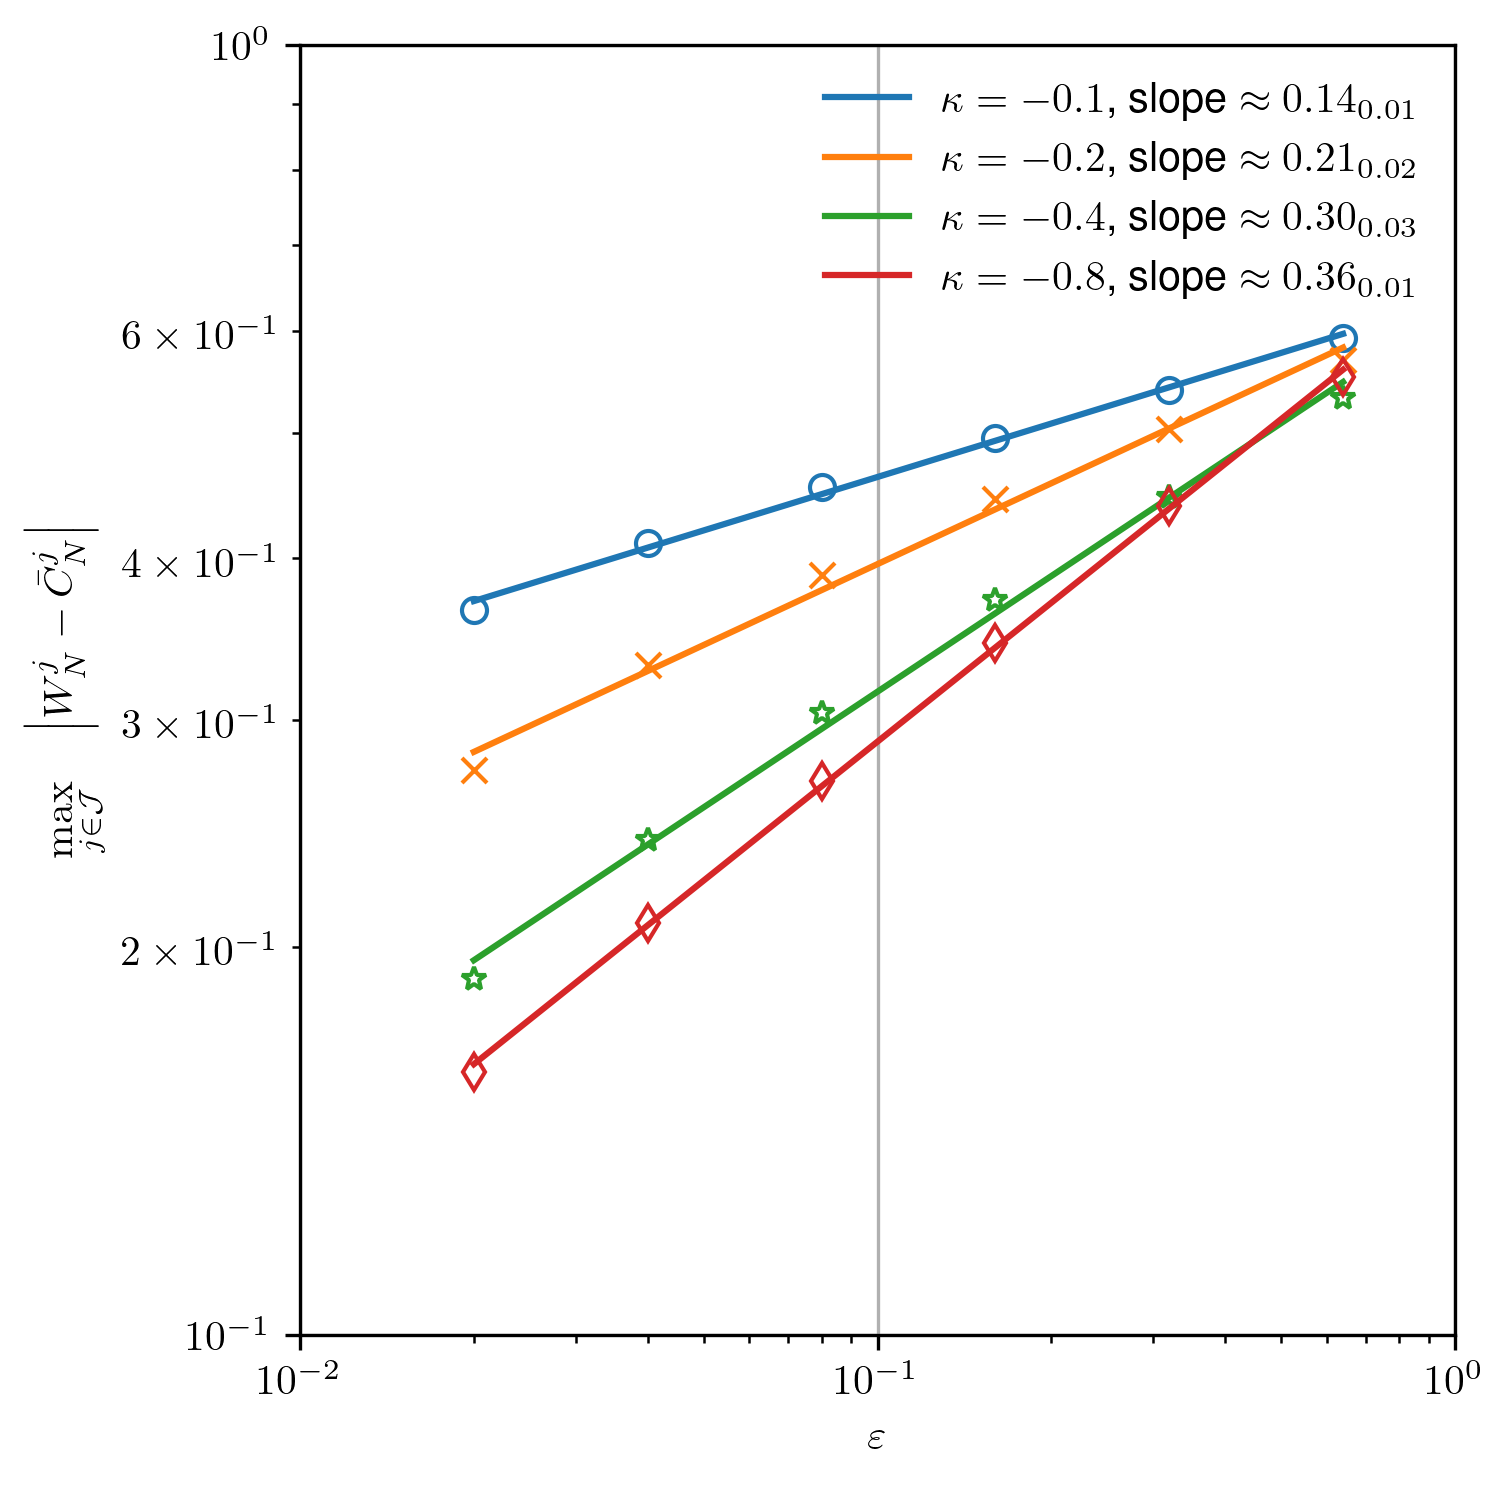
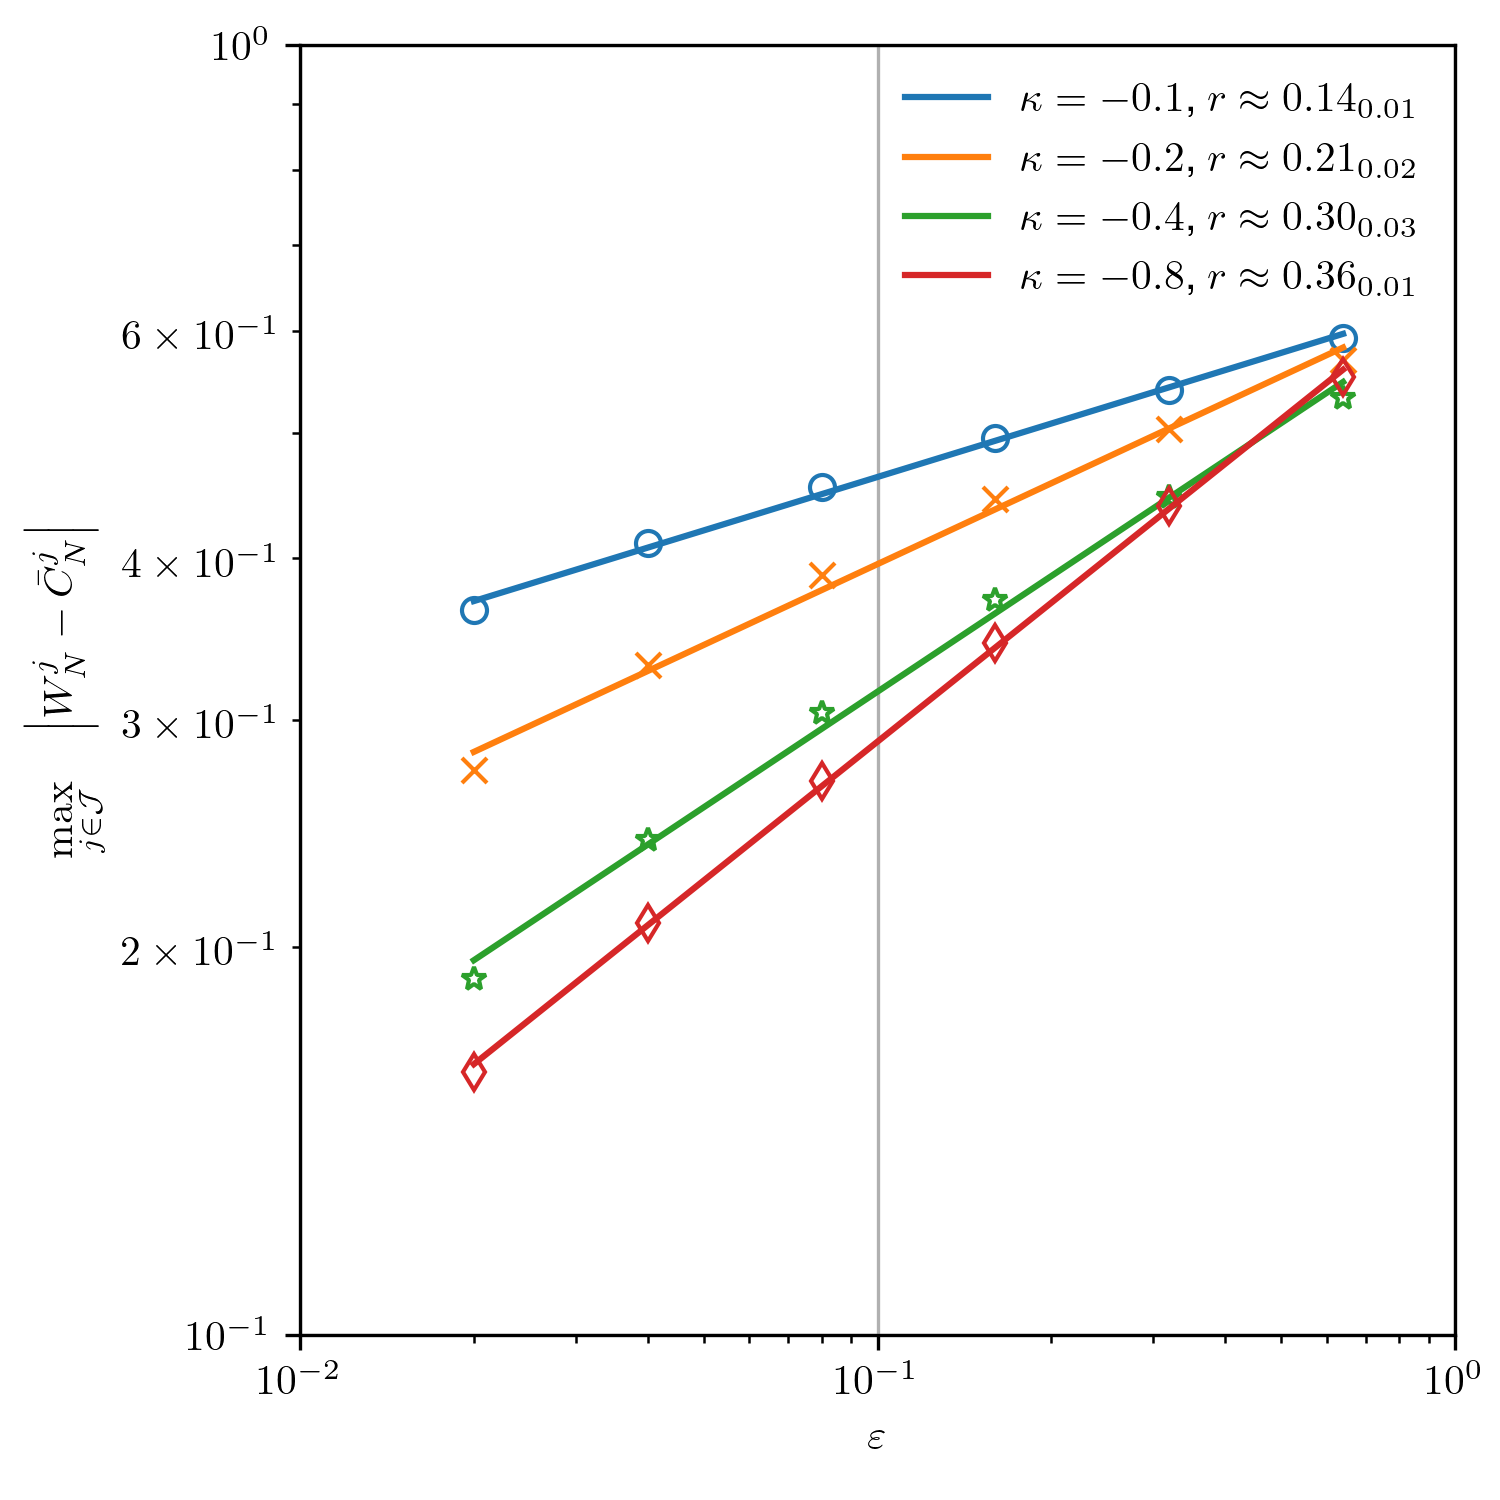
Update notation for figures

Changed region(s): [[0.552, 0.0613, 0.8587, 0.2147]]

diff --git a/plot_figure2_figureS1.py b/plot_figure2_figureS1.py
@@ -63,7 +63,7 @@ class AsymptoticConvergence:
             slope, intercept, r, p, stderr = linregress(np.log(self.es), np.log(btc_error))
             eps_line = np.linspace(self.es.min(), self.es.max())
             slope_error = calculate_slope_error(np.log(self.es), np.log(btc_error), slope, intercept)
-            label = "slope $\\approx%3.2f_{%3.2f}$" % (slope, slope_error)
+            label = "$r \\approx%3.2f_{%3.2f}$" % (slope, slope_error)
             if 'label' not in line_kwargs.keys():
                 ax.annotate(label, xy=(0.05, 0.05), xycoords="axes fraction", color=line_kwargs['color'])
             else:
